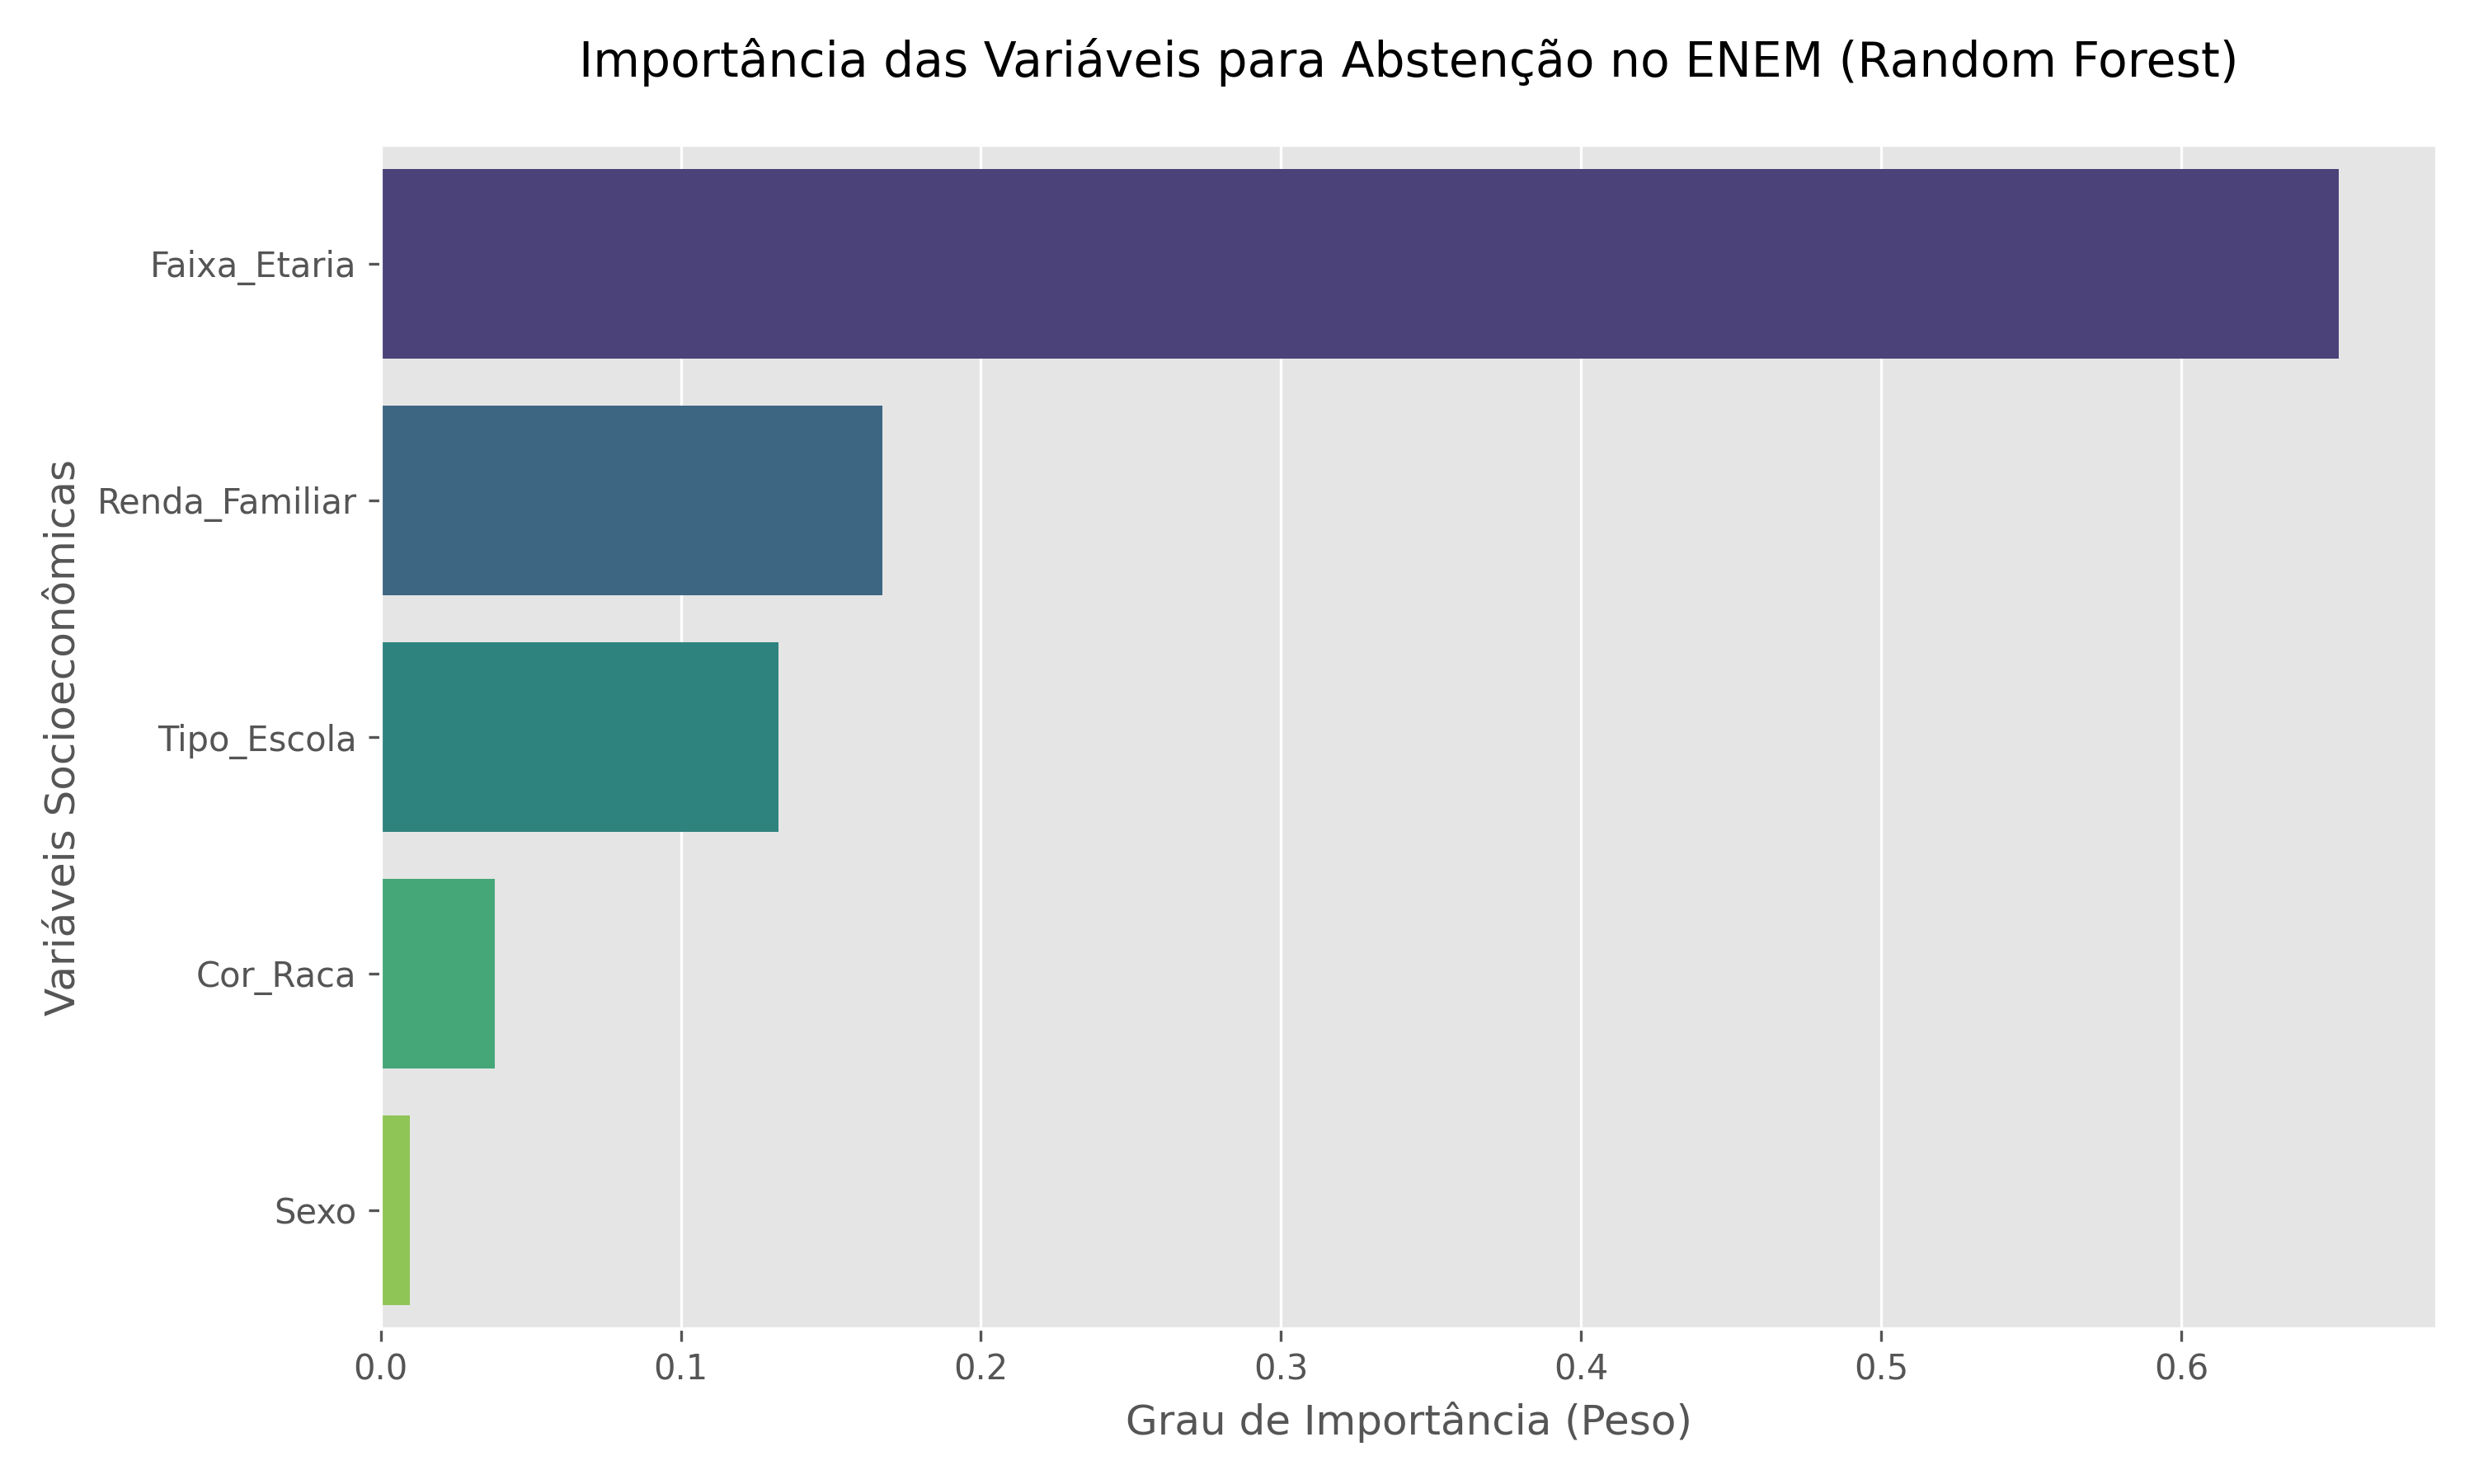
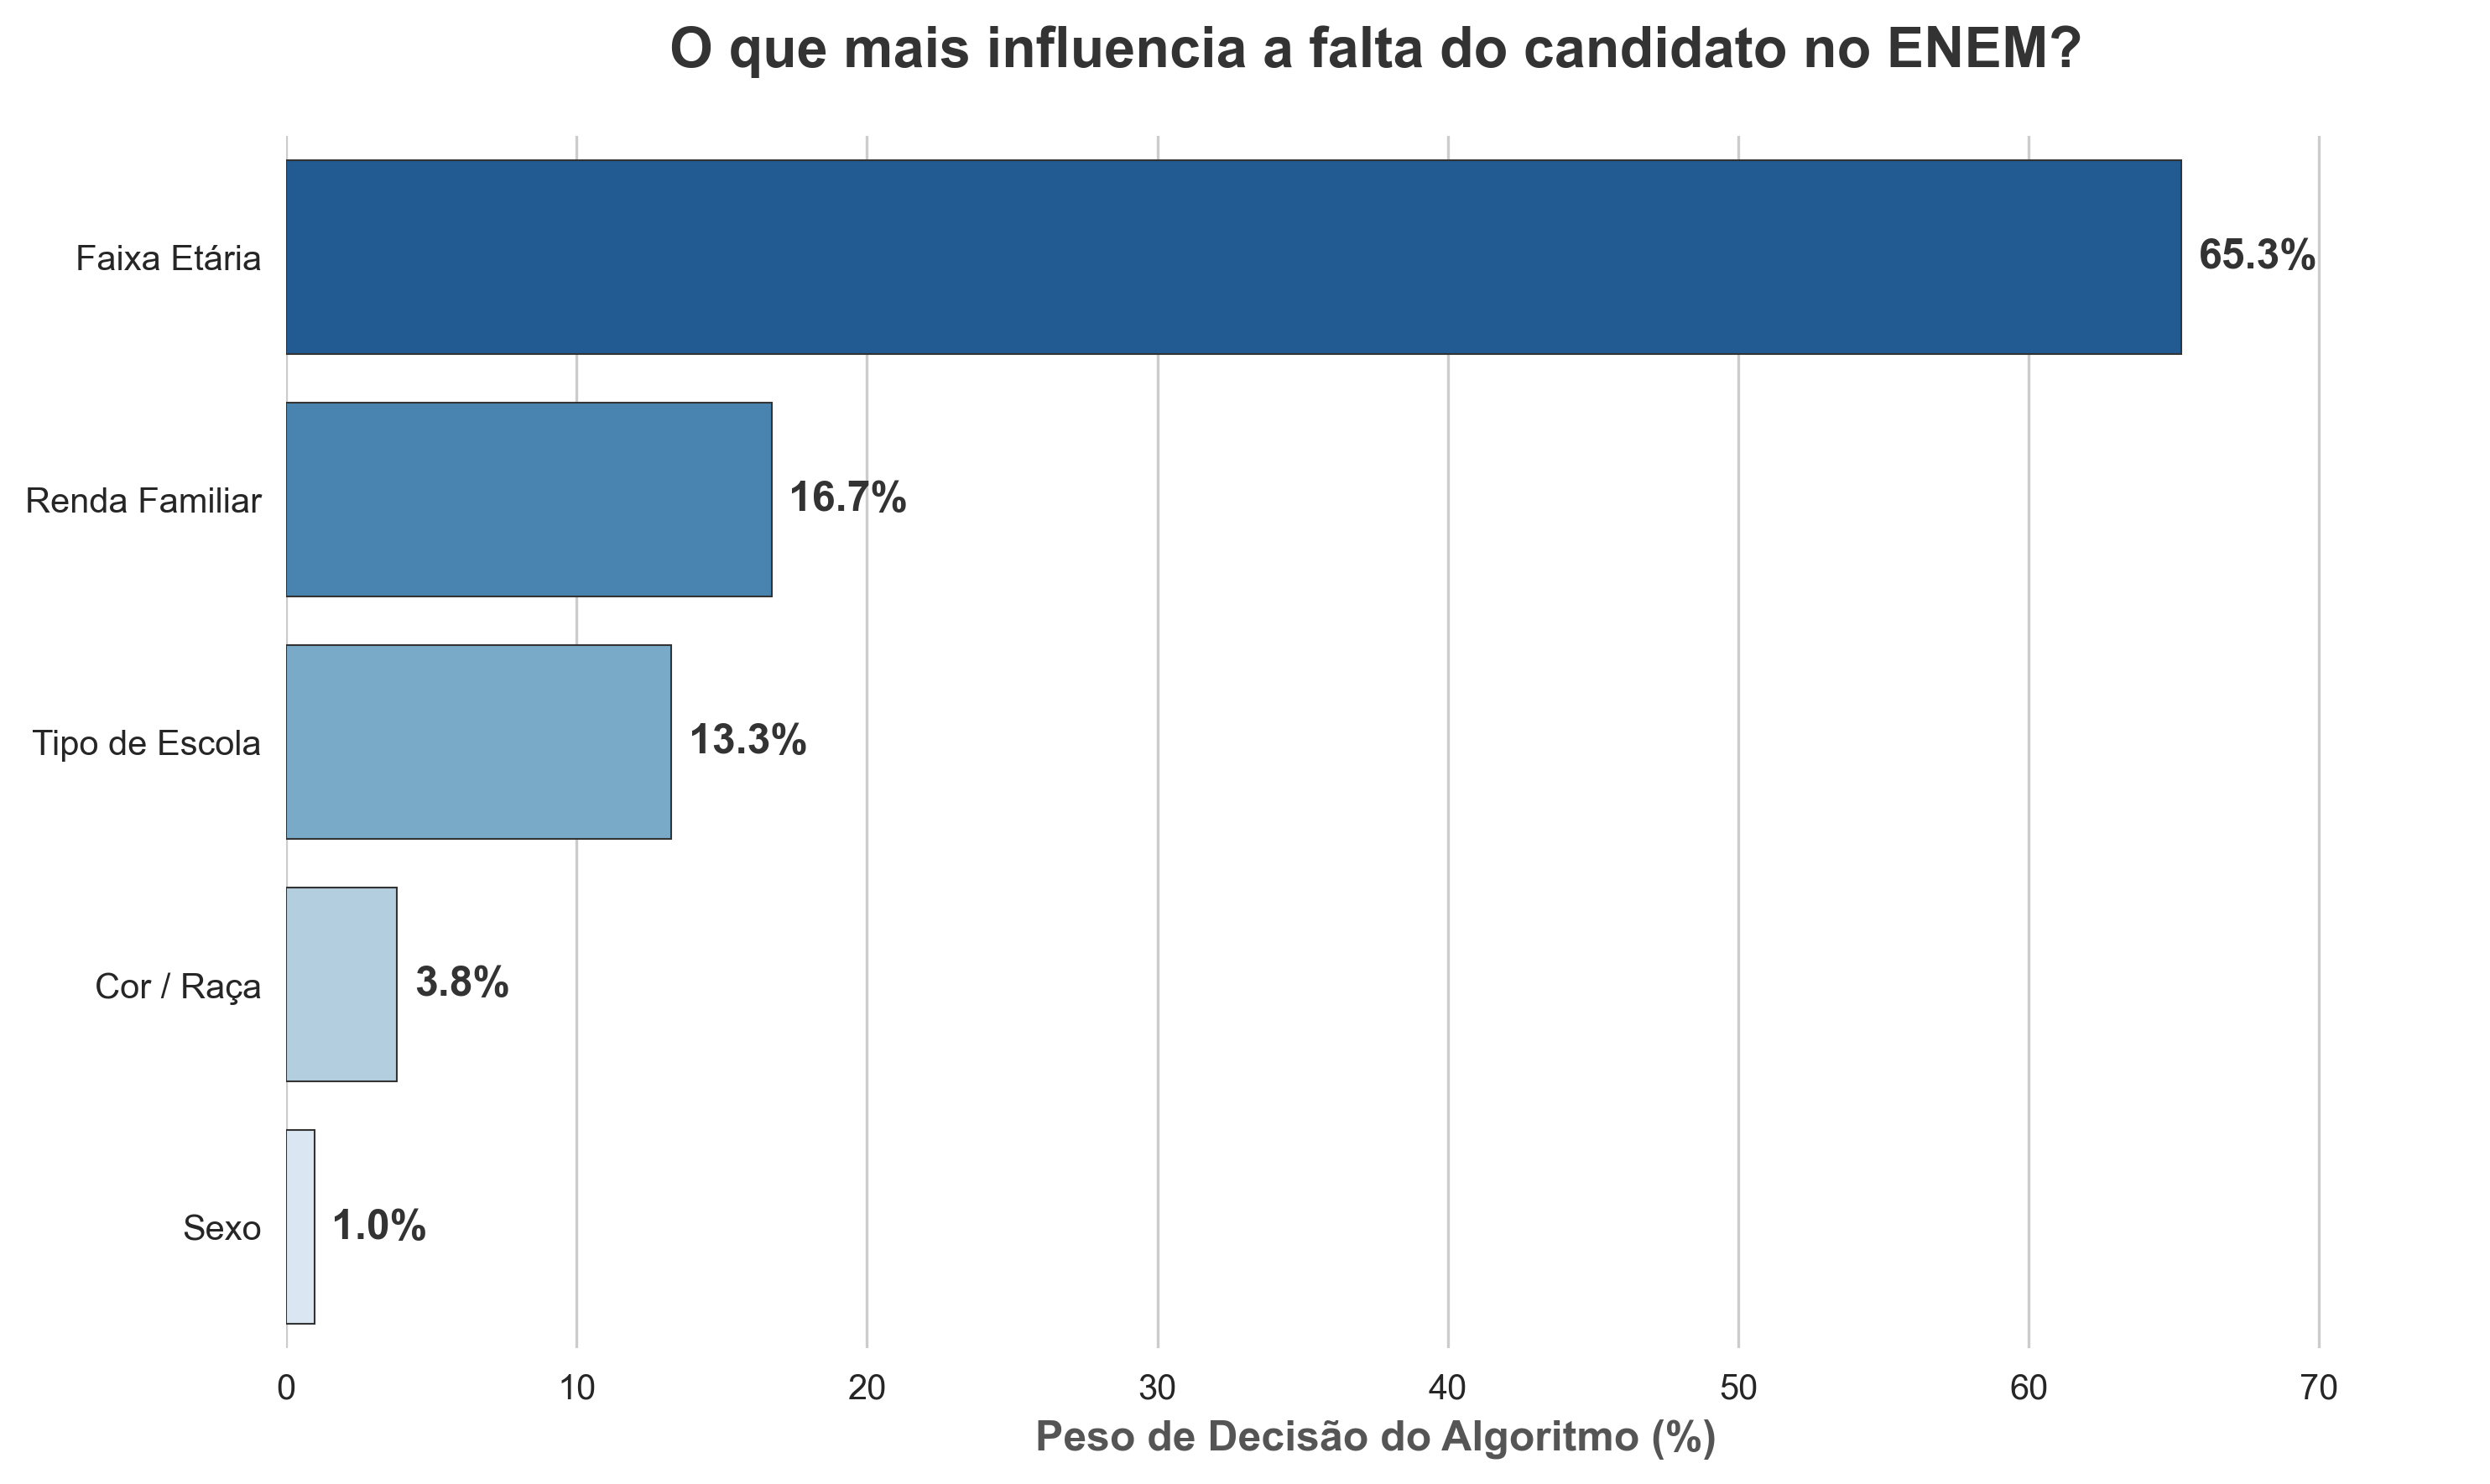
feat(insights): business analytics - waste by state, income decay curve, risk heatmap

diff --git a/src/business_insights.py b/src/business_insights.py
@@ -1,0 +1,152 @@
+import pandas as pd
+import numpy as np
+import matplotlib.pyplot as plt
+import seaborn as plt_sns
+import seaborn as sns
+import os
+
+# Configurações estéticas Premium
+plt.style.use('ggplot')
+sns.set_palette("Blues_r")
+sns.set_style("whitegrid")
+
+CSV_PATH = '../portfolio-enem-abstencao/data/raw_inep/DADOS/MICRODADOS_ENEM_2023.csv'
+CUSTO_POR_CANDIDATO = 146.00  # Custo médio estimado do Inep por candidato (em Reais)
+
+# Estruturas para acumular os dados
+uf_agg = []
+renda_agg = []
+heatmap_agg = []
+
+chunk_size = 300000
+print("Iniciando varredura analítica de negócios (Big Data em Chunks)...")
+
+chunks = pd.read_csv(CSV_PATH, sep=';', encoding='latin1', chunksize=chunk_size, 
+                     usecols=['TP_PRESENCA_CH', 'Q006', 'TP_FAIXA_ETARIA', 'SG_UF_PROVA'])
+
+total_lido = 0
+for i, chunk in enumerate(chunks):
+    # Tratar presença
+    chunk['ausente'] = (chunk['TP_PRESENCA_CH'] == 0).astype(int)
+    chunk['inscrito'] = 1
+    
+    # Tratar NAs
+    chunk['Q006'] = chunk['Q006'].fillna('Sem Resposta')
+    chunk['TP_FAIXA_ETARIA'] = chunk['TP_FAIXA_ETARIA'].fillna(1).astype(int)
+    
+    # Agregação por UF
+    grp_uf = chunk.groupby('SG_UF_PROVA')[['ausente', 'inscrito']].sum().reset_index()
+    uf_agg.append(grp_uf)
+    
+    # Agregação por Renda
+    grp_renda = chunk.groupby('Q006')[['ausente', 'inscrito']].sum().reset_index()
+    renda_agg.append(grp_renda)
+    
+    # Agregação Renda x Idade
+    grp_heat = chunk.groupby(['Q006', 'TP_FAIXA_ETARIA'])[['ausente', 'inscrito']].sum().reset_index()
+    heatmap_agg.append(grp_heat)
+    
+    total_lido += len(chunk)
+    print(f"[{total_lido:,}] linhas computadas...")
+
+print("\nFase Map finalizada. Iniciando Reduce...")
+
+# Consolidar UF
+df_uf = pd.concat(uf_agg).groupby('SG_UF_PROVA')[['ausente', 'inscrito']].sum().reset_index()
+df_uf['custo_desperdicio'] = df_uf['ausente'] * CUSTO_POR_CANDIDATO
+
+# Consolidar Renda
+df_renda = pd.concat(renda_agg).groupby('Q006')[['ausente', 'inscrito']].sum().reset_index()
+df_renda['taxa_abstencao'] = (df_renda['ausente'] / df_renda['inscrito']) * 100
+# Filtrar só as letras reais (A a Q)
+df_renda = df_renda[df_renda['Q006'].isin([chr(i) for i in range(65, 82)])].sort_values('Q006')
+
+# Consolidar Heatmap
+df_heat = pd.concat(heatmap_agg).groupby(['Q006', 'TP_FAIXA_ETARIA'])[['ausente', 'inscrito']].sum().reset_index()
+df_heat['taxa_abstencao'] = (df_heat['ausente'] / df_heat['inscrito']) * 100
+df_heat = df_heat[df_heat['Q006'].isin([chr(i) for i in range(65, 82)])]
+
+os.makedirs('docs', exist_ok=True)
+
+# ---------------------------------------------------------
+# GRÁFICO 1: Prejuízo Financeiro por UF (Top 10)
+# ---------------------------------------------------------
+df_uf_top = df_uf.sort_values('custo_desperdicio', ascending=False).head(10)
+
+plt.figure(figsize=(10, 6))
+ax = sns.barplot(x='custo_desperdicio', y='SG_UF_PROVA', data=df_uf_top, palette='Reds_r', edgecolor='.2')
+plt.title('Top 10 Estados com Maior Desperdício Financeiro (Abstenção)', pad=20, fontsize=16, fontweight='bold', color='#333333')
+plt.xlabel('Prejuízo em Milhões (R$)', fontsize=12, fontweight='bold', color='#555555')
+plt.ylabel('Estado', fontsize=12)
+sns.despine(left=True, bottom=True)
+
+for i in ax.containers:
+    # Formatar para Milhões de Reais
+    labels = [f"R$ {val/1000000:,.1f}M".replace(',', 'X').replace('.', ',').replace('X', '.') for val in i.datavalues]
+    ax.bar_label(i, labels=labels, padding=5, fontsize=11, fontweight='bold', color='#333333')
+
+plt.xlim(0, df_uf_top['custo_desperdicio'].max() * 1.20)
+plt.xticks([]) # Esconder eixo X para deixar limpo
+plt.tight_layout()
+plt.savefig('docs/waste_by_state.png', dpi=300, bbox_inches='tight')
+
+# ---------------------------------------------------------
+# GRÁFICO 2: Decaimento de Abstenção por Renda
+# ---------------------------------------------------------
+plt.figure(figsize=(12, 6))
+# A = Sem Renda ... Q = Mais de 20k
+labels_renda = ['Nenhuma', 'Até 1k', '1k-1.5k', '1.5k-2k', '2k-2.5k', '2.5k-3k', '3k-4k', '4k-5k', '5k-6k', '6k-7k', '7k-8k', '8k-9k', '9k-10k', '10k-12k', '12k-15k', '15k-20k', '+20k']
+df_renda['Renda_Label'] = labels_renda
+
+ax = sns.lineplot(x='Renda_Label', y='taxa_abstencao', data=df_renda, marker='o', color='#1f77b4', linewidth=3, markersize=10)
+plt.title('A Curva da Desigualdade: Taxa de Abstenção vs Renda', pad=20, fontsize=16, fontweight='bold', color='#333333')
+plt.xlabel('Renda Familiar Declarada', fontsize=12, fontweight='bold', color='#555555')
+plt.ylabel('Taxa de Abstenção (%)', fontsize=12, fontweight='bold')
+plt.xticks(rotation=45, ha='right')
+sns.despine(left=True, bottom=True)
+plt.ylim(0, df_renda['taxa_abstencao'].max() * 1.1)
+plt.fill_between(df_renda['Renda_Label'], df_renda['taxa_abstencao'], alpha=0.1, color='#1f77b4')
+plt.tight_layout()
+plt.savefig('docs/decay_by_income.png', dpi=300, bbox_inches='tight')
+
+# ---------------------------------------------------------
+# GRÁFICO 3: Mapa de Calor (Risco Evasão) Renda x Idade
+# ---------------------------------------------------------
+# Pivoteando o Heatmap
+# Para Idade, vamos juntar algumas faixas para não ficar gigante
+# 1-2 = <18, 3-5 = 18-20, 6-10 = 21-25, 11-15 = 26-40, 16-20 = >40
+def map_idade_group(faixa):
+    if faixa <= 2: return 'Até 17 anos'
+    if faixa <= 5: return '18 a 20 anos'
+    if faixa <= 10: return '21 a 25 anos'
+    if faixa <= 15: return '26 a 40 anos'
+    return '+40 anos'
+
+df_heat['Idade_Group'] = df_heat['TP_FAIXA_ETARIA'].apply(map_idade_group)
+# Re-agrupar com o novo nome
+df_heat_grouped = df_heat.groupby(['Q006', 'Idade_Group'])[['ausente', 'inscrito']].sum().reset_index()
+df_heat_grouped['taxa'] = (df_heat_grouped['ausente'] / df_heat_grouped['inscrito']) * 100
+
+pivot_heat = df_heat_grouped.pivot(index='Idade_Group', columns='Q006', values='taxa')
+# Reordenar Idade
+ordem_idade = ['Até 17 anos', '18 a 20 anos', '21 a 25 anos', '26 a 40 anos', '+40 anos']
+pivot_heat = pivot_heat.reindex(ordem_idade)
+# Renomear colunas de Renda para algo mais simples (Baixa, Média, Alta)
+renda_map_heat = {
+    'A': 'Sem Renda', 'B': 'Até 1k', 'C': 'Até 1.5k', 'D': 'Até 2k', 'E': 'Até 2.5k', 
+    'F': 'Até 3k', 'G': 'Até 4k', 'H': 'Até 5k', 'I': 'Até 6k', 'J': 'Até 7k',
+    'K': 'Até 8k', 'L': 'Até 9k', 'M': 'Até 10k', 'N': 'Até 12k', 'O': 'Até 15k', 'P': 'Até 20k', 'Q': '+20k'
+}
+pivot_heat.columns = [renda_map_heat[c] for c in pivot_heat.columns]
+
+plt.figure(figsize=(14, 6))
+sns.heatmap(pivot_heat, annot=True, fmt=".1f", cmap='YlOrRd', cbar_kws={'label': 'Risco de Falta (%)'}, linewidths=.5)
+plt.title('Matriz de Risco: Fator Idade + Fator Renda', pad=20, fontsize=16, fontweight='bold', color='#333333')
+plt.xlabel('Renda Familiar', fontsize=12, fontweight='bold')
+plt.ylabel('Faixa Etária', fontsize=12, fontweight='bold')
+plt.xticks(rotation=45, ha='right')
+plt.tight_layout()
+plt.savefig('docs/heatmap_risk.png', dpi=300, bbox_inches='tight')
+
+print("\nPipeline de Business Insights gerado com sucesso!")
+print(f"Custo Financeiro Total Estimado Desperdiçado (BR): R$ {df_uf['custo_desperdicio'].sum():,.2f}")

diff --git a/src/ml_evasao.py b/src/ml_evasao.py
@@ -84,23 +84,44 @@ roc = roc_auc_score(last_y_test, y_prob)
 print(f"Acurácia: {acc:.4f}")
 print(f"ROC-AUC: {roc:.4f}")
 
-# Gráfico de Feature Importance
-importances = rf_model.feature_importances_
-features_names = last_X_test.columns
+# Gráfico de Feature Importance (Aprimorado)
+importances = rf_model.feature_importances_ * 100 # Converter para %
+# A ordem exata do X é: ['Q006_num', 'TP_ESCOLA', 'TP_COR_RACA', 'TP_SEXO_num', 'TP_FAIXA_ETARIA']
+features_names = ['Renda Familiar', 'Tipo de Escola', 'Cor / Raça', 'Sexo', 'Faixa Etária']
 
 importance_df = pd.DataFrame({
     'Feature': features_names,
     'Importance': importances
 }).sort_values(by='Importance', ascending=False)
 
+# Estética Premium
 plt.figure(figsize=(10, 6))
-sns.barplot(x='Importance', y='Feature', data=importance_df, palette='viridis')
-plt.title('Importância das Variáveis para Abstenção no ENEM (Random Forest)', pad=20, fontsize=14)
-plt.xlabel('Grau de Importância (Peso)', fontsize=12)
-plt.ylabel('Variáveis Socioeconômicas', fontsize=12)
+sns.set_style("whitegrid")
+ax = sns.barplot(
+    x='Importance', 
+    y='Feature', 
+    data=importance_df, 
+    palette='Blues_r',
+    edgecolor='.2'
+)
+
+# Títulos e labels
+plt.title('O que mais influencia a falta do candidato no ENEM?', pad=20, fontsize=16, fontweight='bold', color='#333333')
+plt.xlabel('Peso de Decisão do Algoritmo (%)', fontsize=12, fontweight='bold', color='#555555')
+plt.ylabel('', fontsize=12)
+
+# Remover bordas desnecessárias
+sns.despine(left=True, bottom=True)
+
+# Adicionar o número exato (Porcentagem) na frente de cada barra
+for i in ax.containers:
+    ax.bar_label(i, fmt='%.1f%%', padding=5, fontsize=12, fontweight='bold', color='#333333')
+
+# Ajustar limite X para as labels não cortarem
+plt.xlim(0, importance_df['Importance'].max() * 1.15)
 plt.tight_layout()
 
 # Salvar gráfico
 os.makedirs('docs', exist_ok=True)
-plt.savefig('docs/feature_importance.png', dpi=300)
-print("\nGráfico gerado e salvo em 'docs/feature_importance.png'")
+plt.savefig('docs/feature_importance.png', dpi=300, bbox_inches='tight')
+print("\nGráfico APRIMORADO gerado e salvo em 'docs/feature_importance.png'")

diff --git a/test_imp.py b/test_imp.py
@@ -1,0 +1,26 @@
+import pandas as pd
+from sklearn.ensemble import RandomForestClassifier
+
+CSV_PATH = '../portfolio-enem-abstencao/data/raw_inep/DADOS/MICRODADOS_ENEM_2023.csv'
+
+def preprocess_chunk(chunk):
+    chunk['ausente'] = (chunk['TP_PRESENCA_CH'] == 0).astype(int)
+    chunk['Q006'] = chunk['Q006'].fillna('C')
+    chunk['TP_SEXO'] = chunk['TP_SEXO'].fillna('F')
+    chunk['Q006_num'] = chunk['Q006'].apply(lambda x: ord(str(x).upper()[0]) - 65 if type(x) == str else 2)
+    chunk['TP_SEXO_num'] = chunk['TP_SEXO'].map({'M': 0, 'F': 1}).fillna(1)
+    X = chunk[['Q006_num', 'TP_ESCOLA', 'TP_COR_RACA', 'TP_SEXO_num', 'TP_FAIXA_ETARIA']].fillna(0)
+    y = chunk['ausente']
+    X.columns = ['Renda_Familiar', 'Tipo_Escola', 'Cor_Raca', 'Sexo', 'Faixa_Etaria']
+    return X, y
+
+chunks = pd.read_csv(CSV_PATH, sep=';', encoding='latin1', chunksize=200000, 
+                     usecols=['TP_PRESENCA_CH', 'Q006', 'TP_ESCOLA', 'TP_COR_RACA', 'TP_SEXO', 'TP_FAIXA_ETARIA'])
+chunk = next(chunks)
+X, y = preprocess_chunk(chunk)
+
+rf = RandomForestClassifier(n_estimators=10, random_state=42)
+rf.fit(X, y)
+importances = rf.feature_importances_ * 100
+for name, imp in zip(X.columns, importances):
+    print(f"{name}: {imp:.1f}%")